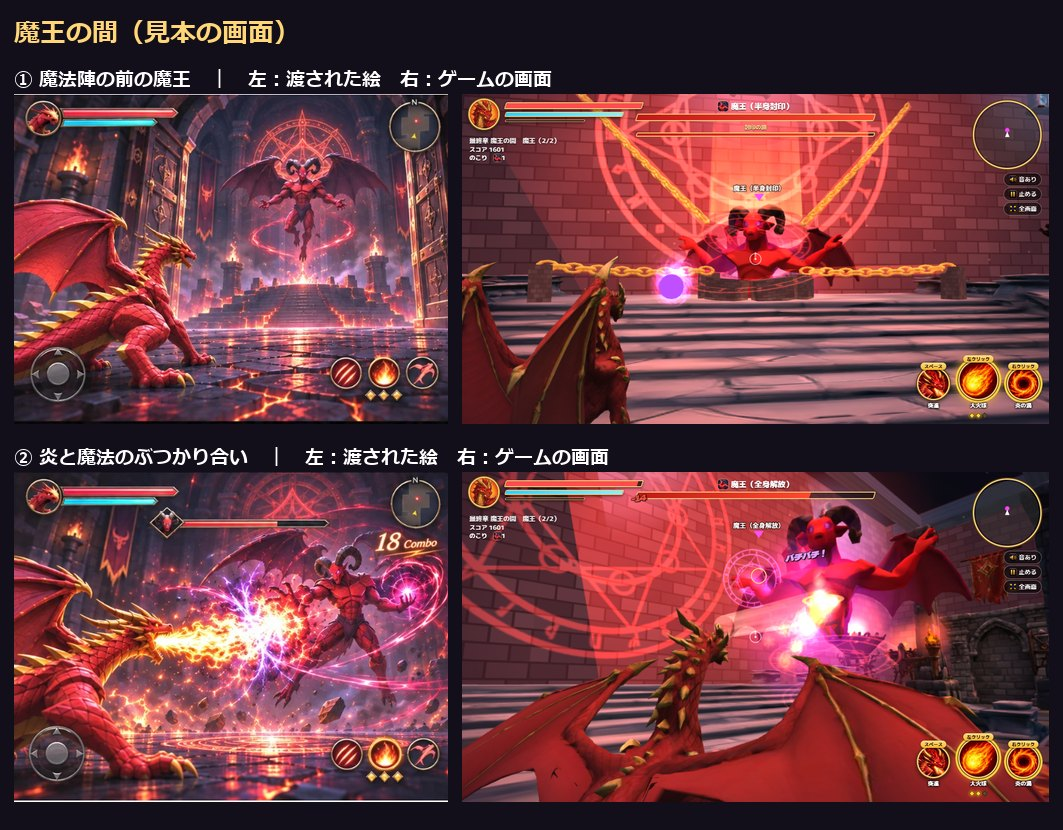
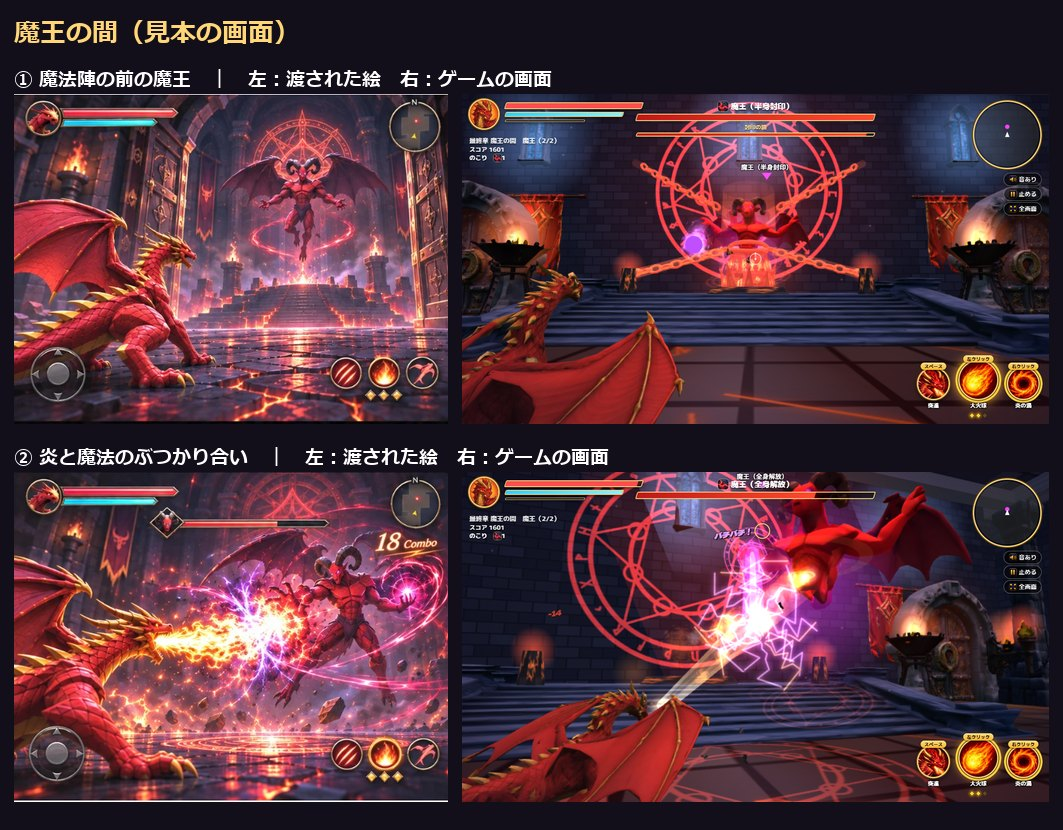
ゲームを更新

diff --git a/hikaku.html b/hikaku.html
@@ -34,8 +34,8 @@ small{color:#b9afcf}
 </style></head><body><main>
 <a class="back" href="./">▶ ゲームを遊ぶ</a>
 <h1>渡された絵 と ゲーム画面の見比べ</h1>
-<p><small>2026年11月15日　版 1116aazv　（左：渡された絵　右：ゲームの画面）</small></p>
-<p class="lead">結論：ふみさんの2回めの指示（11/15 午後）で、表紙の4コマ・洞窟・ワイバーン・迷宮・ゴーレム戦・魔王の間を、絵と同じ構図になるように撮り直しました。王城は、とがった塔のならぶ石の城に作り直しました。洞窟には竜の登場の場面、迷宮には大階段と鎖の封印の扉、魔王の間には「半身封印 → 全身解放」の順番が入りました。まだ弱いのは、谷の地面のやわらかさ、炎の形（丸い火の玉のつらなり）、魔王の間のかべの色です。</p>
+<p><small>2026年11月15日　版 1116aazx　（左：渡された絵　右：ゲームの画面）</small></p>
+<p class="lead">結論：ふみさんの2回めの指示（11/15 午後）で、表紙の4コマ・洞窟・ワイバーン・迷宮・ゴーレム戦・魔王の間を、絵と同じ構図になるように撮り直しました。王城は、とがった塔のならぶ石の城に作り直しました。洞窟には竜の登場の場面、迷宮には大階段と鎖の封印の扉、魔王の間には「半身封印 → 全身解放」の順番が入りました。まだ弱いのは、谷の地面のやわらかさと、炎の形（丸い火の玉のつらなり・白っぽい帯）です。</p>
 <p class="lead" style="font-size:15px">✍ <b>文字で指示できます。</b>各コマの下の黄色い箱で、直したい所にチェック → コピー → Claude Code に貼ってください。コマの見出しも文字で選べます。　関連：<a href="https://dragon-taihi-fumi.surge.sh/">前後の対比</a>／<a href="https://dragon-kamishibai-fumi.surge.sh/">紙芝居の一覧</a>／<a href="https://dragon-shincho-fumi.surge.sh/">身長くらべ</a></p><div class="toc"><a href="#s1">表紙の4コマ</a><a href="#s2">勇者の一行との戦い（洞窟）</a><a href="#s3">ワイバーンとの一騎打ち</a><a href="#s4">地下の迷宮</a><a href="#s5">封印の扉の前のゴーレム戦</a><a href="#s6">魔王の間</a><a href="#s7">こわれる時のかけら（前と今）</a></div>
 <section id="s1"><h2>表紙の4コマ</h2><img src="hikaku.jpg" alt="表紙の4コマ：渡された絵とゲームの画面">
 <div class="card ok"><b>合っている所</b><ul><li>左上：低い所から見上げた、ほえる竜。頭は画面の上、口もとに炎の光。右うしろに、とがった塔のならぶ王城。</li><li>右上：竜が画面の左に大きく、ななめに飛ぶ。行く先に金色の輪が2つ、下に滝と石のアーチ、右上の空にワイバーン、ふちに疾走感の筋。</li><li>左下：左上の竜から右下のゴーレムへ炎のすじ。胸が青く光り、岩のかけらが飛ぶ。</li><li>右下：左下の手前に竜の背と翼。まん中に兵の隊列と投石機、燃える城壁と城、奥の右上に王城。</li></ul></div>
@@ -58,9 +58,9 @@ small{color:#b9afcf}
 <div class="card ng"><b>まだちがう所</b><ul><li>炎が当たった時のいなずまが多めで、見本の「胸の1点が光る」感じよりにぎやか。</li><li>見本のぬれて光る床は無い。</li><li>画面の文字やボタンの並びは、見本とちがう。</li></ul></div>
 <div class="card fix"><b>今回直した事</b><ul><li>ゴーレムを大きく（1.5倍）、明るい黄土色にした。扉の前の石段は暗い石の色に。</li><li>ゴーレムの胸に四角い青白い光・目の光を足した。うしろの扉と壁も作り直した（ふみさん「ゴーレムのグラフィック、封印のグラフィック」）。</li></ul></div><div class="sjw"><div class="sjt">✍ このコマを直したい時：直したい所にチェック →（書ける時は）どう直すかを書く → コピーして Claude Code に貼る</div><div class="sj" data-sec="封印の扉の前のゴーレム戦" data-cap="① 扉の前のゴーレム" data-dflt="手本の絵に近づける"><div class="sjh">① 扉の前のゴーレム</div><label class="sjp"><input type="checkbox" class="sjk"><span class="sjn">ゴーレムのグラフィック</span><input type="text" class="sji" placeholder="どう直すか（空なら「手本の絵に近づける」）"></label><label class="sjp"><input type="checkbox" class="sjk"><span class="sjn">封印の扉</span><input type="text" class="sji" placeholder="どう直すか（空なら「手本の絵に近づける」）"></label><label class="sjp"><input type="checkbox" class="sjk"><span class="sjn">足元の床・岩</span><input type="text" class="sji" placeholder="どう直すか（空なら「手本の絵に近づける」）"></label><label class="sjp"><input type="checkbox" class="sjk"><span class="sjn">画面の文字・ボタンの並び</span><input type="text" class="sji" placeholder="どう直すか（空なら「手本の絵に近づける」）"></label><label class="sjp"><input type="checkbox" class="sjk"><span class="sjn">キャラクター同士の距離</span><input type="text" class="sji" placeholder="どう直すか（空なら「手本の絵に近づける」）"></label><label class="sjp"><input type="checkbox" class="sjk"><span class="sjn">カメラの位置・構図</span><input type="text" class="sji" placeholder="どう直すか（空なら「手本の絵に近づける」）"></label><label class="sjp"><input type="checkbox" class="sjk"><span class="sjn">色・明るさ</span><input type="text" class="sji" placeholder="どう直すか（空なら「手本の絵に近づける」）"></label><label class="sjp"><input type="checkbox" class="sjk"><span class="sjn">そのほか</span><input type="text" class="sji" placeholder="自由に書く"></label><button type="button" class="sjc">このコマの指示をコピー</button><span class="sjm"></span></div><div class="sj" data-sec="封印の扉の前のゴーレム戦" data-cap="② 胸の光へ炎" data-dflt="手本の絵に近づける"><div class="sjh">② 胸の光へ炎</div><label class="sjp"><input type="checkbox" class="sjk"><span class="sjn">胸の青い光</span><input type="text" class="sji" placeholder="どう直すか（空なら「手本の絵に近づける」）"></label><label class="sjp"><input type="checkbox" class="sjk"><span class="sjn">炎の描写</span><input type="text" class="sji" placeholder="どう直すか（空なら「手本の絵に近づける」）"></label><label class="sjp"><input type="checkbox" class="sjk"><span class="sjn">照準の印</span><input type="text" class="sji" placeholder="どう直すか（空なら「手本の絵に近づける」）"></label><label class="sjp"><input type="checkbox" class="sjk"><span class="sjn">背景のグラフィック</span><input type="text" class="sji" placeholder="どう直すか（空なら「手本の絵に近づける」）"></label><label class="sjp"><input type="checkbox" class="sjk"><span class="sjn">キャラクター同士の距離</span><input type="text" class="sji" placeholder="どう直すか（空なら「手本の絵に近づける」）"></label><label class="sjp"><input type="checkbox" class="sjk"><span class="sjn">カメラの位置・構図</span><input type="text" class="sji" placeholder="どう直すか（空なら「手本の絵に近づける」）"></label><label class="sjp"><input type="checkbox" class="sjk"><span class="sjn">色・明るさ</span><input type="text" class="sji" placeholder="どう直すか（空なら「手本の絵に近づける」）"></label><label class="sjp"><input type="checkbox" class="sjk"><span class="sjn">そのほか</span><input type="text" class="sji" placeholder="自由に書く"></label><button type="button" class="sjc">このコマの指示をコピー</button><span class="sjm"></span></div></div></section>
 <section id="s6"><h2>魔王の間</h2><img src="hikaku_s6.jpg" alt="魔王の間：渡された絵とゲームの画面">
-<div class="card ok"><b>合っている所</b><ul><li>① かべの大きな赤い魔法陣の前、祭だんの上に、鎖でしばられた半身の魔王。</li><li>② 封印がくだけた後、全身で戦う魔王。</li></ul></div>
-<div class="card ng"><b>まだちがう所</b><ul><li>かべがピンクがかって明るい（見本は暗い石。直している途中）。</li><li>②は竜のうしろから（見本は横から）。</li><li>見本の左右の大きな扉は無い。</li></ul></div>
-<div class="card fix"><b>今回直した事</b><ul><li>戦いの順番を「半身が封印されたまま少し戦う → 封印がくだける見せ場（スキップできる）→ 全身が解放されて戦う」にした（ふみさん「半身封印されたまま少し→全身解放されて戦うの順番な」）。</li><li>半身の間は、鎖の帯をけずる。鎖が1本ずつ切れ、最後に魔法陣と石の輪がくだける。</li><li>台本 tripo\patches\maou_seal.py、撮る台本 tripo\shots\maoF\maou_shots.py。</li></ul></div><div class="sjw"><div class="sjt">✍ このコマを直したい時：直したい所にチェック →（書ける時は）どう直すかを書く → コピーして Claude Code に貼る</div><div class="sj" data-sec="魔王の間" data-cap="① 魔法陣の前の魔王" data-dflt="手本の絵に近づける"><div class="sjh">① 魔法陣の前の魔王</div><label class="sjp"><input type="checkbox" class="sjk"><span class="sjn">魔王のグラフィック</span><input type="text" class="sji" placeholder="どう直すか（空なら「手本の絵に近づける」）"></label><label class="sjp"><input type="checkbox" class="sjk"><span class="sjn">魔法陣</span><input type="text" class="sji" placeholder="どう直すか（空なら「手本の絵に近づける」）"></label><label class="sjp"><input type="checkbox" class="sjk"><span class="sjn">祭だん・かがり火</span><input type="text" class="sji" placeholder="どう直すか（空なら「手本の絵に近づける」）"></label><label class="sjp"><input type="checkbox" class="sjk"><span class="sjn">左右の大きな扉</span><input type="text" class="sji" placeholder="どう直すか（空なら「手本の絵に近づける」）"></label><label class="sjp"><input type="checkbox" class="sjk"><span class="sjn">溶岩のひびの床</span><input type="text" class="sji" placeholder="どう直すか（空なら「手本の絵に近づける」）"></label><label class="sjp"><input type="checkbox" class="sjk"><span class="sjn">キャラクター同士の距離</span><input type="text" class="sji" placeholder="どう直すか（空なら「手本の絵に近づける」）"></label><label class="sjp"><input type="checkbox" class="sjk"><span class="sjn">カメラの位置・構図</span><input type="text" class="sji" placeholder="どう直すか（空なら「手本の絵に近づける」）"></label><label class="sjp"><input type="checkbox" class="sjk"><span class="sjn">色・明るさ</span><input type="text" class="sji" placeholder="どう直すか（空なら「手本の絵に近づける」）"></label><label class="sjp"><input type="checkbox" class="sjk"><span class="sjn">そのほか</span><input type="text" class="sji" placeholder="自由に書く"></label><button type="button" class="sjc">このコマの指示をコピー</button><span class="sjm"></span></div><div class="sj" data-sec="魔王の間" data-cap="② 炎と魔法のぶつかり合い" data-dflt="手本の絵に近づける"><div class="sjh">② 炎と魔法のぶつかり合い</div><label class="sjp"><input type="checkbox" class="sjk"><span class="sjn">炎と魔法のぶつかり合い</span><input type="text" class="sji" placeholder="どう直すか（空なら「手本の絵に近づける」）"></label><label class="sjp"><input type="checkbox" class="sjk"><span class="sjn">魔王の大きさ・近さ</span><input type="text" class="sji" placeholder="どう直すか（空なら「手本の絵に近づける」）"></label><label class="sjp"><input type="checkbox" class="sjk"><span class="sjn">背景のグラフィック</span><input type="text" class="sji" placeholder="どう直すか（空なら「手本の絵に近づける」）"></label><label class="sjp"><input type="checkbox" class="sjk"><span class="sjn">画面の文字・ボタンの並び</span><input type="text" class="sji" placeholder="どう直すか（空なら「手本の絵に近づける」）"></label><label class="sjp"><input type="checkbox" class="sjk"><span class="sjn">キャラクター同士の距離</span><input type="text" class="sji" placeholder="どう直すか（空なら「手本の絵に近づける」）"></label><label class="sjp"><input type="checkbox" class="sjk"><span class="sjn">カメラの位置・構図</span><input type="text" class="sji" placeholder="どう直すか（空なら「手本の絵に近づける」）"></label><label class="sjp"><input type="checkbox" class="sjk"><span class="sjn">色・明るさ</span><input type="text" class="sji" placeholder="どう直すか（空なら「手本の絵に近づける」）"></label><label class="sjp"><input type="checkbox" class="sjk"><span class="sjn">そのほか</span><input type="text" class="sji" placeholder="自由に書く"></label><button type="button" class="sjc">このコマの指示をコピー</button><span class="sjm"></span></div></div></section>
+<div class="card ok"><b>合っている所</b><ul><li>① 左手前に竜。暗い石のかべの大きな赤い魔法陣の前、祭だんの上に、赤い結晶と光る鎖に閉じこめられた半身の魔王。左右にかがり火・扉・たれ幕。</li><li>② 左下の竜の炎と、右上に浮かぶ魔王の魔法が、まん中でぶつかる。紫のいなずまと火花。</li></ul></div>
+<div class="card ng"><b>まだちがう所</b><ul><li>魔王は見本より遠く小さい（①）。モデルの形で、足の先までは見えにくい。</li><li>床は四角い石で、見本の溶岩のひびの照り返しは少ない。</li><li>竜の炎は白っぽい帯で、見本の火の束とはちがう。</li><li>①②は、撮る時に竜と魔王の置き場所とカメラを決めた物。</li></ul></div>
+<div class="card fix"><b>今回直した事</b><ul><li>戦いの順番を「半身が封印されたまま少し戦う → 封印がくだける見せ場（スキップできる）→ 全身が解放されて戦う」にした（ふみさん「半身封印されたまま少し→全身解放されて戦うの順番な」）。</li><li>半身の間は、鎖の帯をけずる。鎖が1本ずつ切れ、最後に魔法陣と石の輪がくだける。</li><li>「めり込んでいる」（ふみさん）への直し：半身の魔王を、石の輪にしずんだ形 → 床から生えた赤く透ける結晶と光る鎖に閉じこめた形にした。全身解放の魔王は、祭だんや階段に重ならない高さに浮かせた。</li><li>魔王の間のかべを、ピンクのレンガ → 暗い青黒い石にした。左右の扉とたれ幕、アーチのくぼみの壁を足した。</li><li>台本 tripo\patches\maou_seal.py・maou_seal2.py、撮る台本 tripo\shots\maoF\maou_shots.py。</li></ul></div><div class="sjw"><div class="sjt">✍ このコマを直したい時：直したい所にチェック →（書ける時は）どう直すかを書く → コピーして Claude Code に貼る</div><div class="sj" data-sec="魔王の間" data-cap="① 魔法陣の前の魔王" data-dflt="手本の絵に近づける"><div class="sjh">① 魔法陣の前の魔王</div><label class="sjp"><input type="checkbox" class="sjk"><span class="sjn">魔王のグラフィック</span><input type="text" class="sji" placeholder="どう直すか（空なら「手本の絵に近づける」）"></label><label class="sjp"><input type="checkbox" class="sjk"><span class="sjn">魔法陣</span><input type="text" class="sji" placeholder="どう直すか（空なら「手本の絵に近づける」）"></label><label class="sjp"><input type="checkbox" class="sjk"><span class="sjn">祭だん・かがり火</span><input type="text" class="sji" placeholder="どう直すか（空なら「手本の絵に近づける」）"></label><label class="sjp"><input type="checkbox" class="sjk"><span class="sjn">左右の大きな扉</span><input type="text" class="sji" placeholder="どう直すか（空なら「手本の絵に近づける」）"></label><label class="sjp"><input type="checkbox" class="sjk"><span class="sjn">溶岩のひびの床</span><input type="text" class="sji" placeholder="どう直すか（空なら「手本の絵に近づける」）"></label><label class="sjp"><input type="checkbox" class="sjk"><span class="sjn">キャラクター同士の距離</span><input type="text" class="sji" placeholder="どう直すか（空なら「手本の絵に近づける」）"></label><label class="sjp"><input type="checkbox" class="sjk"><span class="sjn">カメラの位置・構図</span><input type="text" class="sji" placeholder="どう直すか（空なら「手本の絵に近づける」）"></label><label class="sjp"><input type="checkbox" class="sjk"><span class="sjn">色・明るさ</span><input type="text" class="sji" placeholder="どう直すか（空なら「手本の絵に近づける」）"></label><label class="sjp"><input type="checkbox" class="sjk"><span class="sjn">そのほか</span><input type="text" class="sji" placeholder="自由に書く"></label><button type="button" class="sjc">このコマの指示をコピー</button><span class="sjm"></span></div><div class="sj" data-sec="魔王の間" data-cap="② 炎と魔法のぶつかり合い" data-dflt="手本の絵に近づける"><div class="sjh">② 炎と魔法のぶつかり合い</div><label class="sjp"><input type="checkbox" class="sjk"><span class="sjn">炎と魔法のぶつかり合い</span><input type="text" class="sji" placeholder="どう直すか（空なら「手本の絵に近づける」）"></label><label class="sjp"><input type="checkbox" class="sjk"><span class="sjn">魔王の大きさ・近さ</span><input type="text" class="sji" placeholder="どう直すか（空なら「手本の絵に近づける」）"></label><label class="sjp"><input type="checkbox" class="sjk"><span class="sjn">背景のグラフィック</span><input type="text" class="sji" placeholder="どう直すか（空なら「手本の絵に近づける」）"></label><label class="sjp"><input type="checkbox" class="sjk"><span class="sjn">画面の文字・ボタンの並び</span><input type="text" class="sji" placeholder="どう直すか（空なら「手本の絵に近づける」）"></label><label class="sjp"><input type="checkbox" class="sjk"><span class="sjn">キャラクター同士の距離</span><input type="text" class="sji" placeholder="どう直すか（空なら「手本の絵に近づける」）"></label><label class="sjp"><input type="checkbox" class="sjk"><span class="sjn">カメラの位置・構図</span><input type="text" class="sji" placeholder="どう直すか（空なら「手本の絵に近づける」）"></label><label class="sjp"><input type="checkbox" class="sjk"><span class="sjn">色・明るさ</span><input type="text" class="sji" placeholder="どう直すか（空なら「手本の絵に近づける」）"></label><label class="sjp"><input type="checkbox" class="sjk"><span class="sjn">そのほか</span><input type="text" class="sji" placeholder="自由に書く"></label><button type="button" class="sjc">このコマの指示をコピー</button><span class="sjm"></span></div></div></section>
 <section id="s7"><h2>こわれる時のかけら（前と今）</h2><img src="hikaku_deb.jpg" alt="こわれる時のかけら（前と今）：渡された絵とゲームの画面">
 <div class="card ok"><b>合っている所</b><ul><li>家・かべがこわれると、折れた木材・屋根がわら・石づみのかけらが飛ぶ（Tripo で3つ作った）。</li></ul></div>
 <div class="card ng"><b>まだちがう所</b><ul><li>同時に出すのは40個まで。それをこえた分は、今までの四角い箱で出る。</li></ul></div>
@@ -71,7 +71,7 @@ small{color:#b9afcf}
 <a class="back" href="./">▶ ゲームを遊ぶ</a>　<a href="story.html">物語を1枚で読むページ</a>
 </main><div class="sjb"><div class="sjr"><span>えらんだ指示：<b class="sjn2">0</b>件</span><button type="button" class="sja">まとめてコピー</button><button type="button" class="sjv g">文を見る</button><button type="button" class="sjx g">全部はずす</button><span class="sjm2"></span></div><textarea readonly></textarea></div><script>
 (function(){
-  var CFG={"page": "見くらべ", "ver": "1116aazv", "url": "https://obake0000.github.io/ore-ga-dragon/hikaku.html"},KEY='shiji_'+CFG.page;
+  var CFG={"page": "見くらべ", "ver": "1116aazx", "url": "https://obake0000.github.io/ore-ga-dragon/hikaku.html"},KEY='shiji_'+CFG.page;
   var boxes=[].slice.call(document.querySelectorAll('.sj'));
   function rows(b){return [].slice.call(b.querySelectorAll('.sjp')).map(function(r){return {k:r.querySelector('.sjk'),n:r.querySelector('.sjn').textContent,i:r.querySelector('.sji')};});}
   function textOf(b){var L=[];rows(b).forEach(function(r){if(!r.k.checked)return;var v=r.i.value.trim();if(r.n==='そのほか'){if(v)L.push('・'+v);}else L.push('・'+r.n+'：'+(v||b.dataset.dflt));});
